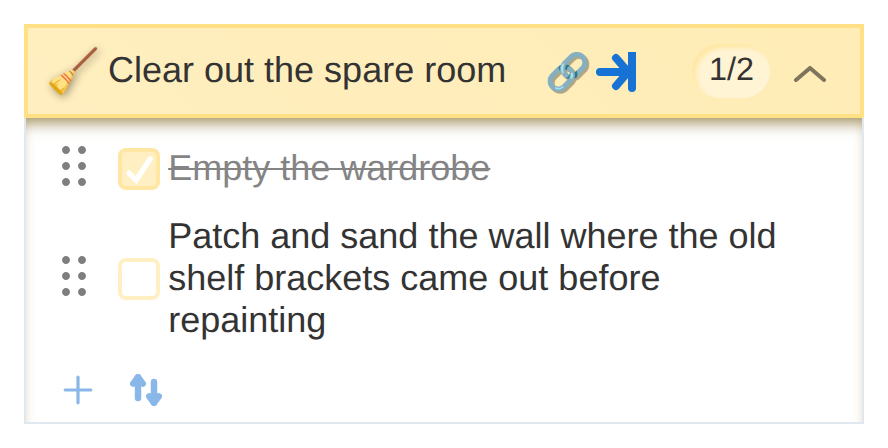
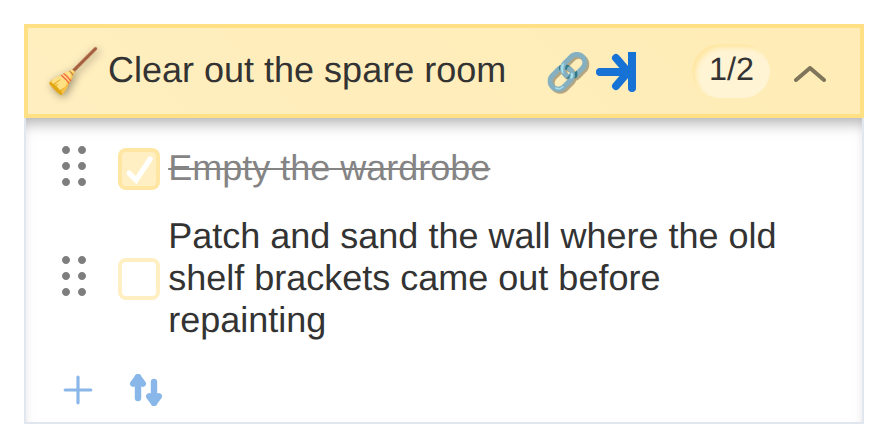
Make the seam shadow neutral instead of category-tinted
The border, the page's own colours, and the card the sheet sits under
already tie it to a specific project. Tinting the shadow too was doing
work that wasn't needed - a plain dark shadow reads as physical depth
(the sheet sits below the card) without adding a second signal for the
same fact.

Claude-Session: https://claude.ai/code/session_01UVR3RxBFYBrYDJKpxeoyhm

Changed region(s): [[0.0304, 0.25, 0.973, 0.2812]]

diff --git a/src/tabs/Projects/Project.css b/src/tabs/Projects/Project.css
@@ -88,14 +88,6 @@
     max-width: 420px;
 
     &.visible {
-      /* Mixed toward black so the shadow stays dark enough to read against
-         white even for the palest category colours. */
-      --popout-shadow: color-mix(
-        in srgb,
-        color(from var(--project-colour) srgb r g b / 1) 60%,
-        black 40%
-      );
-
       opacity: 1;
       margin-block-end: 12px;
       overflow: visible;
@@ -103,7 +95,7 @@
       border: 1px solid var(--border-colour);
       /* .project-details already draws this edge. */
       border-top: none;
-      box-shadow: inset 0 6px 8px -4px var(--popout-shadow);
+      box-shadow: inset 0 6px 8px -4px hsl(0 0% 0% / 0.35);
     }
   }
 
